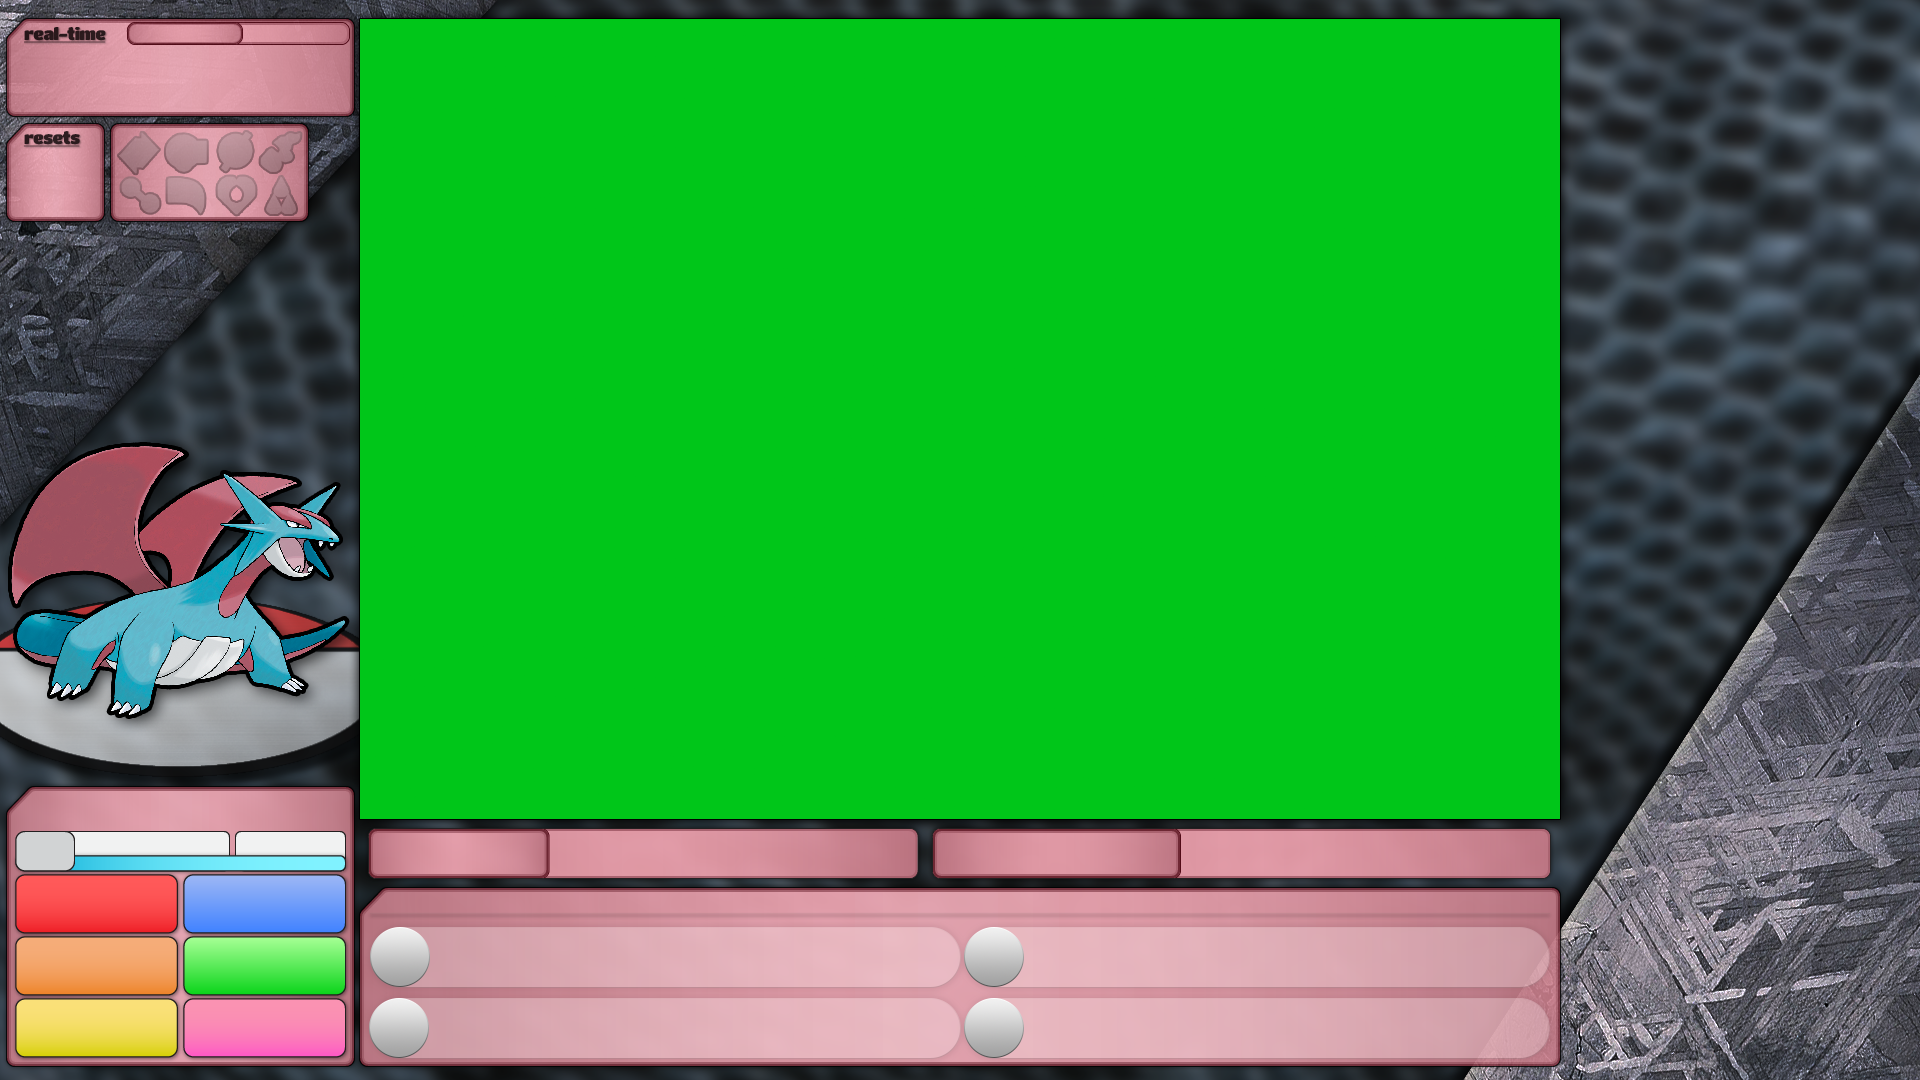
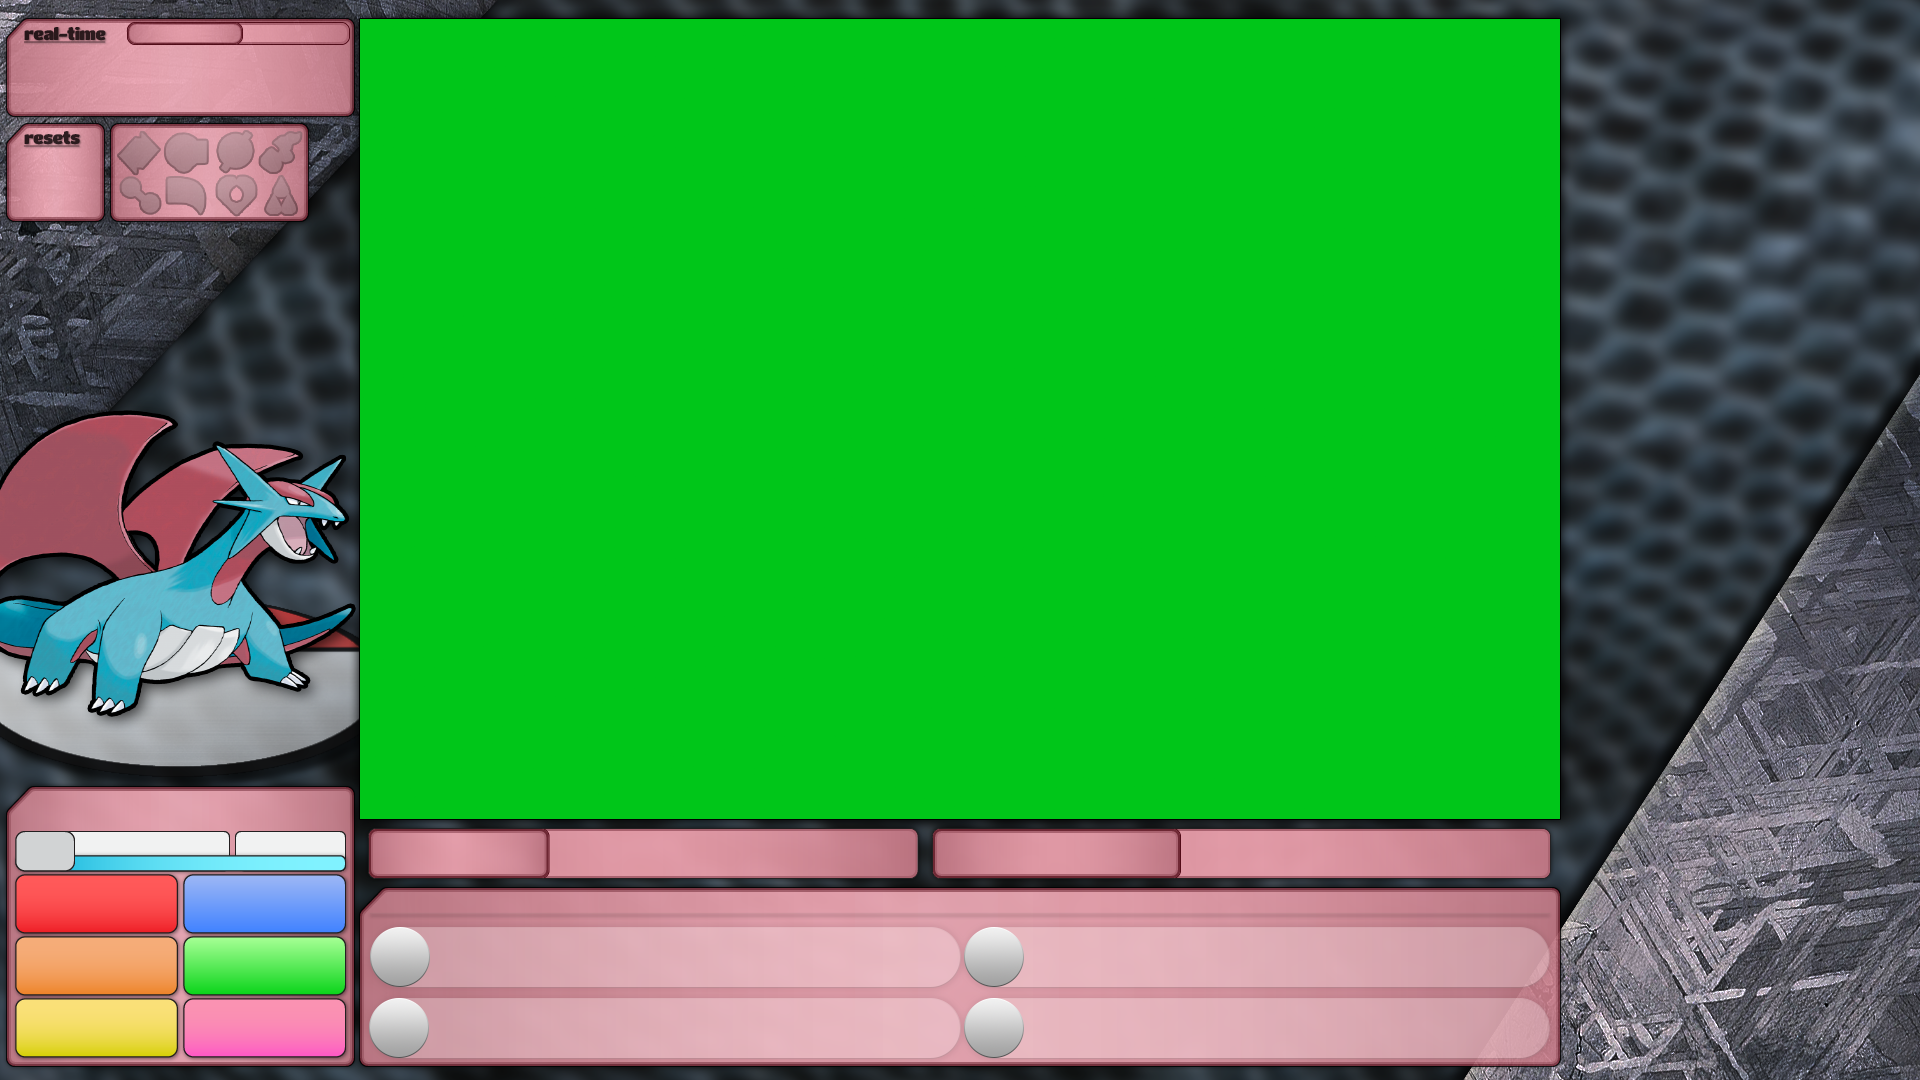
graphics

Changed region(s): [[0.0, 0.3667, 0.1875, 0.6722]]

diff --git a/scripts/vue.js b/scripts/vue.js
@@ -6,10 +6,10 @@ const app = Vue.createApp({
 
             // POKEMON CONFIG (components) ---------------------------------------------------------------------//
             // starter:        357, //select starter (1-386)
-            starterString: "Pelipper",
-            pkmnNature: "Modest",
+            starterString: "Salamence",
+            pkmnNature: "Brave",
             pkmn_ability: false, // false = ability 1, true = ability 2
-            hidden_power_type: "Fire",
+            hidden_power_type: "Electric",
             pkmn_gender: "Female",
             
             // USER CONFIG (components) ------------------------------------------------------------------------// 
@@ -1308,6 +1308,9 @@ const app = Vue.createApp({
             if (ability == `Hustle` && statname == `attack`) {
                 return Math.floor(statValue * 1.5)
             }
+            else if (ability == `Pure Power` && statname == `attack`) {
+                return Math.floor(statValue * 2)
+            }
             else if (ability == `Huge Power` && statname == `attack`) {
                 return Math.floor(statValue * 2)
             }
@@ -1818,118 +1821,118 @@ const app = Vue.createApp({
         }
 
         //GAMESTATE MANAGEMENT
-// set initial gamestate value when the layout is loaded
-if (this.mapper.properties.player.team[0].level.value == 0) 
-    this.g3stateVariable = "Base Stats"
-else if (this.mapper.properties.pointers.callback1.value == null)
-    this.g3stateVariable = "Base Stats"
-else if (this.mapper.properties.pointers.callback1.value == "Overworld")
-    this.g3stateVariable = "Overworld"
-else if (this.mapper.properties.pointers.callback1.value == "Battle") {
-    if (this.mapper.properties.pointers.callback1.value == "Battle Animation") {
-        this.g3stateVariable = "To Battle"
-    }
-    else if (this.mapper.properties.pointers.callback1.value == "Battle") {
-        this.g3stateVariable = "Battle"
-    }
-}
-else
-    this.g3stateVariable = "Battle"
+        // set initial gamestate value when the layout is loaded
+        if (this.mapper.properties.player.team[0].level.value == 0) 
+            this.g3stateVariable = "Base Stats"
+        else if (this.mapper.properties.pointers.callback1.value == null)
+            this.g3stateVariable = "Base Stats"
+        else if (this.mapper.properties.pointers.callback1.value == "Overworld")
+            this.g3stateVariable = "Overworld"
+        else if (this.mapper.properties.pointers.callback1.value == "Battle") {
+            if (this.mapper.properties.pointers.callback1.value == "Battle Animation") {
+                this.g3stateVariable = "To Battle"
+            }
+            else if (this.mapper.properties.pointers.callback1.value == "Battle") {
+                this.g3stateVariable = "Battle"
+            }
+        }
+        else
+            this.g3stateVariable = "Battle"
 
-// wait for events to change the state
-this.mapper.properties.pointers.callback1.change((prop) => {
-    if (prop.value == "Overworld") { this.g3stateVariable = "Overworld" } 
-});
+        // wait for events to change the state
+        this.mapper.properties.pointers.callback1.change((prop) => {
+            if (prop.value == "Overworld") { this.g3stateVariable = "Overworld" } 
+        });
 
-this.mapper.properties.battle.turnInfo.battleDialogue.change((prop) => {
-    if (prop.value == "Player Control") { this.g3stateVariable = "Battle"}
-})
+        this.mapper.properties.battle.turnInfo.battleDialogue.change((prop) => {
+            if (prop.value == "Player Control") { this.g3stateVariable = "Battle"}
+        })
 
-this.mapper.properties.battle.turnInfo.battleOutcome.change((prop) => {
-    if (prop.value == "WON") { this.g3stateVariable = "From Battle"}
-    if (prop.value == "LOST") { this.g3stateVariable = "From Battle"}
-    if (prop.value == "DRAW") { this.g3stateVariable = "From Battle"}
-    if (prop.value == "RAN") { this.g3stateVariable = "From Battle"}
-    if (prop.value == "CAUGHT") { this.g3stateVariable = "From Battle"}
-    if (prop.value == "PLAYER_TELEPORTED") { this.g3stateVariable = "From Battle"}
-    if (prop.value == "POKEMON_FLED") { this.g3stateVariable = "From Battle"}
-    if (prop.value == "NO_SAFARI_BALLS") { this.g3stateVariable = "From Battle"}
-    if (prop.value == "FORFEITED") { this.g3stateVariable = "From Battle"}
-    if (prop.value == "POKEMON_TELEPORTED") { this.g3stateVariable = "From Battle"}
-});
+        this.mapper.properties.battle.turnInfo.battleOutcome.change((prop) => {
+            if (prop.value == "WON") { this.g3stateVariable = "From Battle"}
+            if (prop.value == "LOST") { this.g3stateVariable = "From Battle"}
+            if (prop.value == "DRAW") { this.g3stateVariable = "From Battle"}
+            if (prop.value == "RAN") { this.g3stateVariable = "From Battle"}
+            if (prop.value == "CAUGHT") { this.g3stateVariable = "From Battle"}
+            if (prop.value == "PLAYER_TELEPORTED") { this.g3stateVariable = "From Battle"}
+            if (prop.value == "POKEMON_FLED") { this.g3stateVariable = "From Battle"}
+            if (prop.value == "NO_SAFARI_BALLS") { this.g3stateVariable = "From Battle"}
+            if (prop.value == "FORFEITED") { this.g3stateVariable = "From Battle"}
+            if (prop.value == "POKEMON_TELEPORTED") { this.g3stateVariable = "From Battle"}
+        });
 
-this.mapper.properties.pointers.callback2.change((prop) => {
-    if (prop.value == "Owners") { 
-        this.g3stateVariable = "Base Stats"
-    }
-    else if (prop.value == "Battle Animation") { 
-        this.g3stateVariable = "To Battle"
-    }
-});
+        this.mapper.properties.pointers.callback2.change((prop) => {
+            if (prop.value == "Owners") { 
+                this.g3stateVariable = "Base Stats"
+            }
+            else if (prop.value == "Battle Animation") { 
+                this.g3stateVariable = "To Battle"
+            }
+        });
 
-this.mapper.properties.player.team[0].personalityValue.change((prop) => {
-    if (prop.value == 0) {
-        this.g3stateVariable = "Base Stats"
-    }
-});
+        this.mapper.properties.player.team[0].personalityValue.change((prop) => {
+            if (prop.value == 0) {
+                this.g3stateVariable = "Base Stats"
+            }
+        });
 
-//ENEMY STATE
-//ENEMY STATE MANAGER
-//"Pokemon", "Fainted"
-// this.mapper.properties.battle.enemyPokemon.partyPos.change(async (newProp, oldProp) => {
-//     await this.sleep(100)
-//     this.enemyState = "Pokemon"
-// })
-if (this.mapper.properties.player.team[0].level.value == 0) 
-    this.enemyState = "Not In Battle";
-else if (this.mapper.properties.battle.turnInfo.battleDialogue.value ==  6)
-    this.enemyState = "Pokemon";
-else if (this.mapper.properties.battle.type.is_battle.value == true)
-    this.enemyState = "Not In Battle";
-else if  (this.mapper.properties.battle.enemyPokemon.hp.value == 0)
-    this.enemyState = "Fainted";
-else if  (this.mapper.properties.battle.enemyPokemon.hp.value > 0 && this.mapper.properties.screen.menu.currentItem.value == 0)
-    this.enemyState = "Pokemon Sent Out";
-else if  (this.mapper.properties.battle.enemyPokemon.hp.value > 0 && this.mapper.properties.screen.menu.currentItem.value > 0)
-    this.enemyState = "Pokemon";
+        //ENEMY STATE
+        //ENEMY STATE MANAGER
+        //"Pokemon", "Fainted"
+        // this.mapper.properties.battle.enemyPokemon.partyPos.change(async (newProp, oldProp) => {
+        //     await this.sleep(100)
+        //     this.enemyState = "Pokemon"
+        // })
+        if (this.mapper.properties.player.team[0].level.value == 0) 
+            this.enemyState = "Not In Battle";
+        else if (this.mapper.properties.battle.turnInfo.battleDialogue.value ==  6)
+            this.enemyState = "Pokemon";
+        else if (this.mapper.properties.battle.type.is_battle.value == true)
+            this.enemyState = "Not In Battle";
+        else if  (this.mapper.properties.battle.enemyPokemon.hp.value == 0)
+            this.enemyState = "Fainted";
+        else if  (this.mapper.properties.battle.enemyPokemon.hp.value > 0 && this.mapper.properties.screen.menu.currentItem.value == 0)
+            this.enemyState = "Pokemon Sent Out";
+        else if  (this.mapper.properties.battle.enemyPokemon.hp.value > 0 && this.mapper.properties.screen.menu.currentItem.value > 0)
+            this.enemyState = "Pokemon";
 
-this.mapper.properties.pointers.callback2.change((prop) => {
-    if (prop.value == "Battle Animation") { 
-        this.enemyState = "Battle Starting"
-    }
-});
-this.mapper.properties.battle.turnInfo.battleDialogue.change((prop) => {
-    if (prop.value == `Player Control` && this.enemyState == "Battle Starting") {
-        this.enemyState = "Pokemon";
-    }
-});
-this.mapper.properties.battle.enemyPokemon.hp.change(async (newProp, oldProp) => {
-    if (newProp == 0 && this.enemyState == "Pokemon") {
-        this.enemyState = "Fainting"
-        await this.sleep(200)
-        this.enemyState = "Fainted"
-    }
-    if (newProp > 0 && this.enemyState == "Fainted") {
-        this.enemyState = "Pokemon"
-    }
-});
-// this.mapper.properties.screen.tiles.column1.tile7.change((prop) => {
-//     if (prop == 127 && 
-//         this.mapper.properties.screen.tiles.column1.tile6 == 127 && 
-//         this.mapper.properties.screen.tiles.column1.tile5 == 127 && 
-//         this.mapper.properties.screen.tiles.column1.tile4 == 127 && 
-//         this.mapper.properties.screen.tiles.column1.tile3 == 127 && 
-//         this.mapper.properties.screen.tiles.column1.tile2 == 127 && 
-//         this.mapper.properties.screen.tiles.column1.tile1 == 127 &&
-//         this.enemyState == "Fainting") {
-//             this.enemyState = "Fainted"
-//         }
-// });
-this.mapper.properties.battle.outcome.change(async (prop) => {
-    if (prop.value != null) {
-        this.enemyState = "Battle Finished"
-    }
-});
+        this.mapper.properties.pointers.callback2.change((prop) => {
+            if (prop.value == "Battle Animation") { 
+                this.enemyState = "Battle Starting"
+            }
+        });
+        this.mapper.properties.battle.turnInfo.battleDialogue.change((prop) => {
+            if (prop.value == `Player Control` && this.enemyState == "Battle Starting") {
+                this.enemyState = "Pokemon";
+            }
+        });
+        this.mapper.properties.battle.enemyPokemon.hp.change(async (newProp, oldProp) => {
+            if (newProp == 0 && this.enemyState == "Pokemon") {
+                this.enemyState = "Fainting"
+                await this.sleep(200)
+                this.enemyState = "Fainted"
+            }
+            if (newProp > 0 && this.enemyState == "Fainted") {
+                this.enemyState = "Pokemon"
+            }
+        });
+        // this.mapper.properties.screen.tiles.column1.tile7.change((prop) => {
+        //     if (prop == 127 && 
+        //         this.mapper.properties.screen.tiles.column1.tile6 == 127 && 
+        //         this.mapper.properties.screen.tiles.column1.tile5 == 127 && 
+        //         this.mapper.properties.screen.tiles.column1.tile4 == 127 && 
+        //         this.mapper.properties.screen.tiles.column1.tile3 == 127 && 
+        //         this.mapper.properties.screen.tiles.column1.tile2 == 127 && 
+        //         this.mapper.properties.screen.tiles.column1.tile1 == 127 &&
+        //         this.enemyState == "Fainting") {
+        //             this.enemyState = "Fainted"
+        //         }
+        // });
+        this.mapper.properties.battle.outcome.change(async (prop) => {
+            if (prop.value != null) {
+                this.enemyState = "Battle Finished"
+            }
+        });
 
 
         //MOST RECENT FIELD STATUS
@@ -2019,7 +2022,10 @@ this.mapper.properties.battle.outcome.change(async (prop) => {
         // SETTING THE STARTER POKEMON'S STATS ----------------------------------------------------------------------------------------------//
         const setStartingAttributes = async () => {
             const personalityValue = this.natures[this.pkmnNature][`personality_value_${this.pkmn_gender.toLowerCase()}`]
-            const iv_block = this.g3hiddenPowerTypeSelector[this.hidden_power_type]
+            var iv_block = this.g3hiddenPowerTypeSelector[this.hidden_power_type]
+            if (this.pkmn_ability == true) {
+                iv_block = iv_block + 2147483648
+            }
 
             // only recalculate stats when IVs when your starter is received
             if (this.mapper.properties.overworld.mapName.value == "ROUTE 101" && this.mapper.properties.player.team[0].level.value == 5) {

diff --git a/index.html b/index.html
@@ -202,7 +202,8 @@
                         <tr v-for="x in getMovepool(dexDataRubySapphireEmerald, g3MoveData, g3tmhmMapping, s1dynamicReset.species.value).level">
                             <td class="movepool_way">{{x.Level}}</td>
                             <td class="movepool_move">{{x.Move}}</td>
-                            <td class="movepool_type" :style="{'background-color': `var(--${x.Type?.toLowerCase()})`}">{{x.Type}}</td>
+                            <td class="movepool_type" :style="{'background-color': `var(--${movepoolTypeColor(x)?.toLowerCase()})`}">{{movepoolType(x)}}</td>
+                            <!-- <td class="movepool_type" :style="{'background-color': `var(--${x.Type?.toLowerCase()})`}">{{x.Type}}</td> -->
                             <td class="movepool_tableC">{{x.Power}}</td>
                             <td class="movepool_tableC">{{x.Accuracy}}%</td>
                             <td class="movepool_tableC">{{x.PP}}</td>

diff --git a/lib/hiddenPowerTypeSelector_new.js b/lib/hiddenPowerTypeSelector_new.js
@@ -1,0 +1,19 @@
+const g3hiddenPowerTypeSelector = {
+    "Dark"     : 1073741823,
+    "Ice"      : 1073740767,
+    "Fighting" : 1039105023,
+    "Flying"   : 1039137758,
+    "Poison"   : 1039137791,
+    "Ground"   : 1039138815,
+    "Rock"     : 1040153599,
+    "Bug"      : 1040186335,
+    "Ghost"    : 1040187359,
+    "Steel"    : 1040187391,
+    "Fire"     : 1072660447,
+    "Water"    : 1072692191,
+    "Grass"    : 1072693215,
+    "Electric" : 1072693247,
+    "Psychic"  : 1073709023,
+    "Dragon"   : 1073741791,
+}
+// 2,147,483,648 (add this if the Pokemon is using ability 2)

diff --git a/lib/hiddenPowerTypeSelector.js b/lib/hiddenPowerTypeSelector.js
@@ -1,8 +1,7 @@
 const g3hiddenPowerTypeSelector = {
-    // "Dark"     : 3221225471,
-    "Dark"     : 1073741823, //ability 2
+    "Dark"     : 1073741823,
     "Ice"      : 1073740767,
-    "Fighting" : 1893178144,
+    "Fighting" : 1039105023,
     "Flying"   : 1039137758,
     "Poison"   : 1039137791,
     "Ground"   : 1039138815,
@@ -17,3 +16,4 @@ const g3hiddenPowerTypeSelector = {
     "Psychic"  : 1073709023,
     "Dragon"   : 1073741791,
 }
+// 2,147,483,648 (add this if the Pokemon is using ability 2)

diff --git a/style.css b/style.css
@@ -2430,6 +2430,7 @@ canvas {  /* or some other selector */
     background-color: #ffffff;
     font-size: 15px;
     line-height: 20px;
+    line-height: 19px;
     width: 328px;
     height: 1001px;
     font-family: play;
